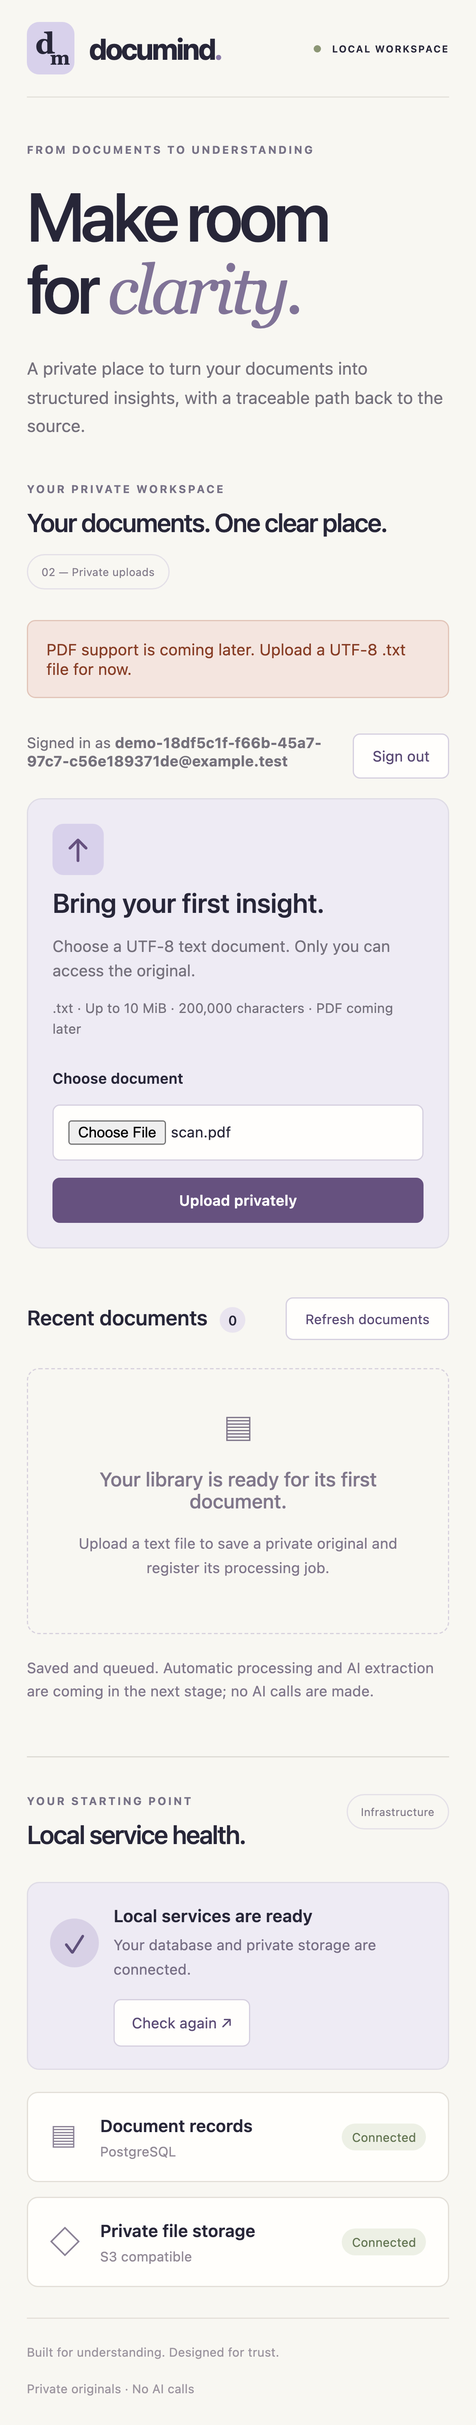
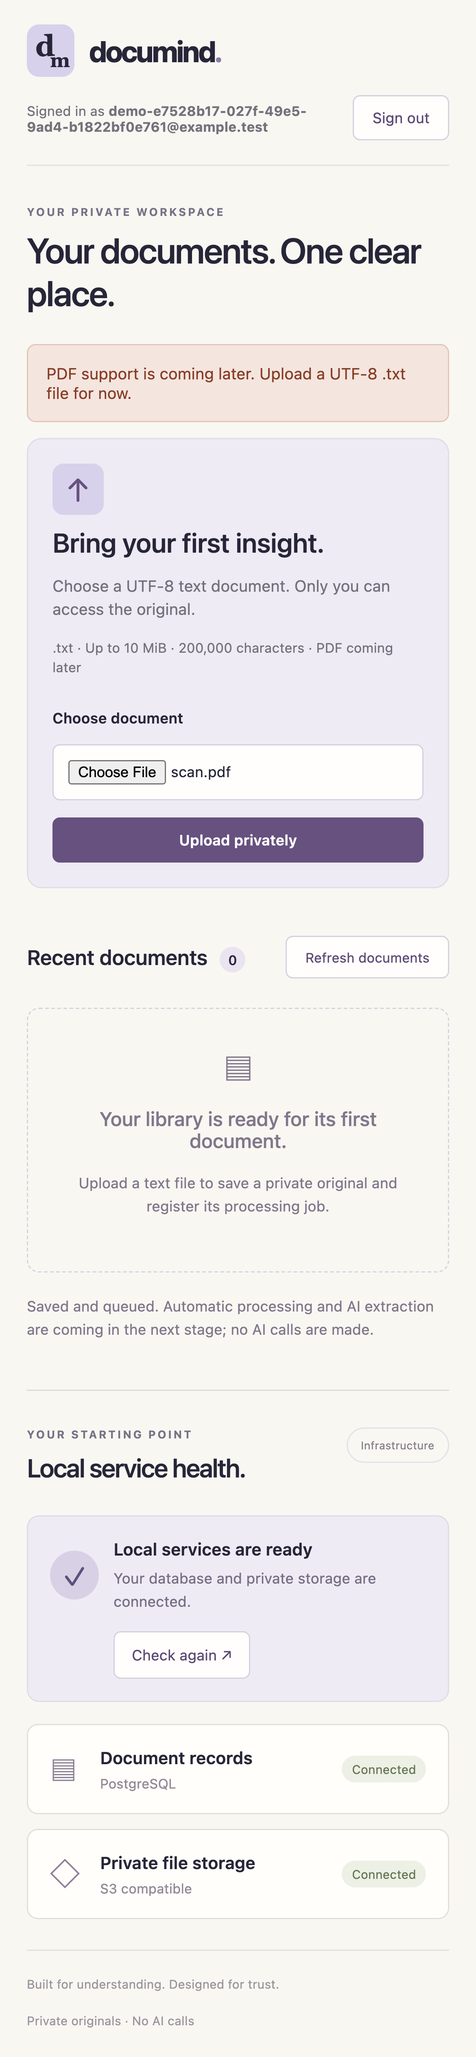
fix: separate authentication entry from document workspace

diff --git a/web/src/workspace.tsx b/web/src/workspace.tsx
@@ -1,4 +1,5 @@
-import {useEffect, useRef, useState, type FormEvent} from 'react';
+import {useEffect, useRef, useState, type FormEvent, type ReactNode} from 'react';
+import {Brand} from './brand';
 type User = {id:string;email:string};
 type Document = {id:string;name:string;size:number;status:string;createdAt:string};
 const messages:Record<string,string> = {
@@ -10,15 +11,15 @@ const messages:Record<string,string> = {
  storage_unavailable:'Private storage is unavailable. Your upload was not accepted. Try again.',registration_unavailable:'We could not confirm this upload. Try again with the same file to safely check its status.',
  uploads_busy:'Uploads are busy. Wait a moment and try again.',origin_rejected:'This address is not configured for sign-in. Use the local workspace address.',
 };
-export function Workspace(){
- const [user,setUser]=useState<User|null>(null),[checking,setChecking]=useState(true),[mode,setMode]=useState<'login'|'register'>('register');
+export function Workspace({children}:{children:ReactNode}){
+ const [user,setUser]=useState<User|null>(null),[checking,setChecking]=useState(true),[mode,setMode]=useState<'login'|'register'>('login');
  const [email,setEmail]=useState(''),[password,setPassword]=useState(''),[busy,setBusy]=useState(false),[error,setError]=useState(''),[notice,setNotice]=useState('');
  const [docs,setDocs]=useState<Document[]>([]),[listReady,setListReady]=useState(false),[file,setFile]=useState<File|null>(null);
  const key=useRef(''),input=useRef<HTMLInputElement>(null);
  async function api(path:string,init?:RequestInit){
   const response=await fetch(path,{...init,signal:AbortSignal.timeout(45000)});
   const data=await response.json();
-  if(!response.ok){if(response.status===401&&path!=='/api/auth/login'){setUser(null);setDocs([]);setListReady(false);setFile(null);key.current='';setNotice('')};throw new Error(messages[data.error]??'Something went wrong. Check your local services and try again.');}
+  if(!response.ok){if(response.status===401&&path!=='/api/auth/login'){setUser(null);setDocs([]);setListReady(false);setFile(null);key.current='';setNotice('');setMode('login')};throw new Error(messages[data.error]??'Something went wrong. Check your local services and try again.');}
   return data;
  }
  useEffect(()=>{let active=true;void fetch('/api/me',{signal:AbortSignal.timeout(8000)}).then(async r=>{
@@ -37,16 +38,31 @@ export function Workspace(){
   }catch(e){setError(e instanceof Error?e.message:'Could not confirm the upload. Retry with the same file.')}finally{setBusy(false)}
  }
  async function refresh(){setBusy(true);setError('');try{const d=await api('/api/documents');setDocs(d.documents);setListReady(true)}catch(e){setError((e as Error).message)}finally{setBusy(false)}}
- return <section className="document-workspace" aria-labelledby="documents-title">
-  <div className="section-heading"><div><p className="eyebrow">YOUR PRIVATE WORKSPACE</p><h2 id="documents-title">{user?'Your documents. One clear place.':'A little clarity starts here.'}</h2></div><span className="phase">02 — Private uploads</span></div>
-  {error&&<p className="error" role="alert">{error}</p>}{notice&&<p className="success" role="status">{notice}</p>}
-  {checking?<p role="status">Checking your session…</p>:user?<>
-   <div className="account"><span>Signed in as <strong>{user.email}</strong></span><button disabled={busy} onClick={()=>void logout()}>Sign out</button></div>
+ if(checking) return <div className="session-screen"><Brand/><main><div className="session-indicator" aria-hidden="true"/><p role="status">Checking your session…</p></main></div>;
+ if(!user) return <div className="auth-screen">
+  <aside className="auth-story"><Brand/><div className="auth-story-copy"><p className="eyebrow">FROM DOCUMENTS TO UNDERSTANDING</p><h2>Make room<br/>for <em>clarity.</em></h2><p>A private place for your documents.<br/>A clearer view of what matters.</p><div className="auth-paper" aria-hidden="true"><span className="paper-label">YOUR NEXT CHAPTER</span><div className="paper-line wide"/><div className="paper-line"/><span className="highlight">It starts with a little clarity.</span><div className="paper-line short"/><span className="paper-number">01 /</span></div></div><p className="auth-footnote">Built for understanding. Designed for trust.</p></aside>
+  <main className="auth-main"><div className="auth-mobile-brand"><Brand/></div><div className="auth-form-wrap">
+   <p className="eyebrow">YOUR PRIVATE WORKSPACE</p><h1>{mode==='register'?'Create your account':'Welcome back'}</h1><p className="auth-description">{mode==='register'?'A fresh space for your documents. Make it yours.':'Sign in to pick up where you left off.'}</p>
+   <form className="identity-form" onSubmit={signIn}>
+    <label htmlFor="email">Email</label><input id="email" type="email" placeholder="you@example.com" autoComplete="username" required maxLength={254} disabled={busy} value={email} onChange={e=>setEmail(e.target.value)}/>
+    <label htmlFor="password">Password</label><input id="password" type="password" autoComplete={mode==='register'?'new-password':'current-password'} required minLength={12} maxLength={128} disabled={busy} value={password} onChange={e=>setPassword(e.target.value)}/>
+    {mode==='register'&&<p className="hint">Use at least 12 characters.</p>}
+    {error&&<p className="error" role="alert">{error}</p>}
+    <button className="primary" disabled={busy}>{busy?'Please wait…':mode==='register'?'Create account':'Sign in'}</button>
+    <button type="button" disabled={busy} className="text-button" onClick={()=>{setMode(mode==='register'?'login':'register');setError('');setPassword('')}}>{mode==='register'?'Already have an account? Sign in':'New here? Create an account'}</button>
+   </form><p className="auth-privacy"><span aria-hidden="true">◇</span> Your documents are private to your account.</p>
+  </div><p className="auth-local">LOCAL WORKSPACE</p></main>
+ </div>;
+ return <div className="shell application-shell">
+  <header className="topbar"><Brand/><div className="account"><span>Signed in as <strong>{user.email}</strong></span><button disabled={busy} onClick={()=>void logout()}>Sign out</button></div></header>
+  <main className="application-main"><section className="document-workspace" aria-labelledby="documents-title">
+   <div className="section-heading"><div><p className="eyebrow">YOUR PRIVATE WORKSPACE</p><h1 id="documents-title">Your documents. One clear place.</h1></div></div>
+   {error&&<p className="error" role="alert">{error}</p>}{notice&&<p className="success" role="status">{notice}</p>}
    <form className="upload-card" onSubmit={upload}><div className="upload-copy"><span className="upload-symbol" aria-hidden="true">↑</span><h3>Bring your first insight.</h3><p>Choose a UTF-8 text document. Only you can access the original.</p><p className="hint">.txt · Up to 10 MiB · 200,000 characters · PDF coming later</p></div><label className="file-label" htmlFor="document-file">Choose document</label><input ref={input} id="document-file" name="file" type="file" accept=".txt,text/plain" disabled={busy} onChange={e=>{setFile(e.target.files?.[0]??null);key.current=crypto.randomUUID();setError('');setNotice('')}}/><button className="primary" disabled={busy||!file} type="submit">{busy?'Please wait…':'Upload privately'}</button></form>
    <div className="list-heading"><h3>Recent documents <span className="count">{docs.length}</span></h3><button disabled={busy} onClick={()=>void refresh()}>Refresh documents</button></div>
    {docs.length===0?<div className="empty"><span aria-hidden="true">▤</span><h3>{listReady?'Your library is ready for its first document.':'Loading your library…'}</h3><p>{listReady?'Upload a text file to save a private original and register its processing job.':'Use Refresh documents if the connection fails.'}</p></div>:<ul className="document-list">{docs.map(d=><li key={d.id}><span className="document-icon" aria-hidden="true">▤</span><div className="document-name"><strong>{d.name}</strong><span>{d.size.toLocaleString()} bytes · {new Date(d.createdAt).toLocaleDateString()}</span></div><span className="badge queued">Queued</span><a className="download" href={`/api/documents/${d.id}/download`}>Download<span className="sr-only"> {d.name}</span></a></li>)}</ul>}
    <p className="pipeline-note">Saved and queued. Automatic processing and AI extraction are coming in the next stage; no AI calls are made.</p>
-  </>:<div className="identity-layout"><div className="identity-copy"><h3>Your documents stay yours.</h3><p>Create a local account to save private text files and download your originals whenever you need them.</p><p className="hint">This workspace currently stores and queues files. Automatic processing and PDF support are coming later.</p></div><form className="identity-form" onSubmit={signIn}><h3>{mode==='register'?'Create your account':'Welcome back'}</h3><label htmlFor="email">Email</label><input id="email" type="email" autoComplete="username" required maxLength={254} disabled={busy} value={email} onChange={e=>setEmail(e.target.value)}/><label htmlFor="password">Password</label><input id="password" type="password" autoComplete={mode==='register'?'new-password':'current-password'} required minLength={12} maxLength={128} disabled={busy} value={password} onChange={e=>setPassword(e.target.value)}/><p className="hint">Use at least 12 characters.</p><button className="primary" disabled={busy}>{busy?'Please wait…':mode==='register'?'Create account':'Sign in'}</button><button type="button" disabled={busy} className="text-button" onClick={()=>{setMode(mode==='register'?'login':'register');setError('');setPassword('')}}>{mode==='register'?'Already have an account? Sign in':'New here? Create an account'}</button></form></div>}
 
- </section>;
+  </section>{children}<footer><span>Built for understanding. Designed for trust.</span><span>Private originals · No AI calls</span></footer></main>
+ </div>;
 }

diff --git a/web/src/styles.css b/web/src/styles.css
@@ -2,3 +2,10 @@
 
 .document-workspace{margin-bottom:44px}button{font-family:inherit;font-size:12px;padding:10px 15px;border:1px solid #d6d0e0;border-radius:6px;background:#fffefc;color:#5b4b76;cursor:pointer}button:disabled{opacity:.55;cursor:not-allowed}input{font:inherit;font-size:14px;border:1px solid #d6d0e0;border-radius:6px;padding:12px;background:#fffefc;width:100%;min-width:0}input:focus-visible{outline:3px solid #7560bd;outline-offset:2px}.primary{background:#66517f;color:#fff;border-color:#66517f;font-weight:600}.identity-layout{display:grid;grid-template-columns:1fr 1fr;gap:48px;background:#eeebf4;border:1px solid #dfdce6;border-radius:12px;padding:34px}.identity-copy{max-width:400px}.identity-copy h3{font:30px Georgia,serif;color:#625474}.identity-copy p{line-height:1.7;color:#75717c;font-size:14px}.identity-form{display:grid;gap:10px;background:#fffefb;border-radius:10px;padding:26px}.identity-form h3{margin:0 0 8px;font-size:21px}.identity-form label{font-size:12px;font-weight:600}.hint{font-size:11px!important;line-height:1.6;color:#80778b}.identity-form .hint{margin:0 0 8px}.text-button{border:0;background:none;font-size:12px}.account{display:flex;justify-content:space-between;align-items:center;gap:12px;font-size:12px;padding:16px 0;color:#75717c}.account span{overflow-wrap:anywhere}.upload-card{background:#eeebf4;border:1px solid #dfdce6;border-radius:12px;padding:26px;display:grid;grid-template-columns:1fr auto;gap:14px}.upload-copy{grid-column:1/-1}.upload-copy h3{font-size:22px;font-weight:550;margin:10px 0}.upload-copy p{font-size:13px;color:#75717c;line-height:1.5}.upload-symbol{display:grid;place-items:center;width:42px;height:42px;background:#d8d1eb;border-radius:9px;font-size:26px;color:#66517f}.file-label{grid-column:1/-1;font-size:12px;font-weight:600}.upload-card input{background:#fffefc;font-size:12px}.list-heading{display:flex;justify-content:space-between;align-items:center;gap:10px;margin:30px 0 14px}.list-heading h3{font-size:17px;font-weight:550}.count{font-size:11px;background:#e9e4ef;padding:4px 7px;border-radius:50%;margin-left:6px}.document-list{list-style:none;margin:0;padding:0;border:1px solid #e3dfd8;border-radius:10px;background:#fffefb;overflow:hidden}.document-list li{padding:21px;display:flex;align-items:center;gap:18px;border-bottom:1px solid #e9e5de}.document-list li:last-child{border:0}.document-icon{font-size:26px;color:#9a8cac}.document-name{display:flex;flex-direction:column;gap:6px;min-width:0;flex:1}.document-name strong{overflow-wrap:anywhere;font-size:14px;font-weight:600}.document-name span{font-size:10px;color:#918995}.download{font-size:12px;color:#66517f}.queued{background:#eee8f4;color:#735b8a;margin:0}.empty{text-align:center;border:1px dashed #d8d2de;border-radius:10px;padding:32px;color:#80778b}.empty>span{font-size:28px}.empty h3{font-weight:500;font-size:16px}.empty p,.pipeline-note{font-size:12px;line-height:1.6}.pipeline-note{color:#80778b;margin-top:18px}.success{background:#edf0e5;color:#4c633a;border:1px solid #cbd6bb;border-radius:7px;padding:16px;font-size:13px;line-height:1.6}.sr-only{position:absolute;width:1px;height:1px;padding:0;margin:-1px;overflow:hidden;clip:rect(0,0,0,0);white-space:nowrap;border:0}
 @media(max-width:700px){.identity-layout{grid-template-columns:1fr;padding:20px;gap:12px}.identity-copy h3{font-size:25px;margin-top:0}.identity-form{padding:20px}.document-workspace .section-heading{flex-direction:column}.upload-card{grid-template-columns:1fr;padding:20px}.upload-copy,.file-label{grid-column:1}.document-list li{flex-wrap:wrap;padding:18px;gap:12px}.document-name{min-width:calc(100% - 44px)}.document-list .badge{margin-left:38px}.download{margin-left:auto}.account{align-items:flex-start}.account button{flex-shrink:0}.list-heading button{font-size:11px}}
+
+/* Authentication is a full entry screen. Application panels mount only after identity resolves. */
+.auth-screen{min-height:100dvh;display:grid;grid-template-columns:1fr 1fr;background:#fffefb}.auth-story{background:#eeebf4;padding:48px 60px 30px;display:flex;flex-direction:column;position:relative;overflow:hidden}.auth-story-copy{margin:auto 0;padding:55px 0 35px}.auth-story h2{font-size:72px;line-height:1.05;letter-spacing:-3.5px;font-weight:550}.auth-story h2 em{font:italic 1em Georgia,serif;color:#807397}.auth-story-copy>p:not(.eyebrow){font-size:16px;line-height:1.75;color:#756f80}.auth-paper{width:245px;margin:42px 0 10px 35px;padding:28px;background:#fffefb;border:1px solid #ddd7e5;border-radius:7px;transform:rotate(-7deg);box-shadow:12px 14px 0 #ded7e9}.auth-paper .paper-label{margin-bottom:24px}.auth-paper .paper-number{margin-top:20px}.auth-footnote{font-size:11px;color:#8b8296;line-height:1.5;margin:0}.auth-main{padding:40px 60px;display:flex;flex-direction:column;justify-content:center;align-items:center;position:relative}.auth-form-wrap{width:100%;max-width:380px;margin:auto 0;padding:40px 0}.auth-form-wrap h1{font-size:38px;line-height:1.15;letter-spacing:-1.5px;margin:0 0 14px;font-weight:550}.auth-form-wrap .eyebrow{margin-bottom:16px}.auth-description{color:#80778b;font-size:14px;line-height:1.7;margin:0 0 32px}.auth-main .identity-form{padding:0;background:none;gap:12px}.auth-main .identity-form input{height:48px;background:#fffefb}.auth-main .identity-form label:not(:first-child){margin-top:9px}.auth-main .identity-form .primary{height:48px;margin-top:12px}.auth-main .identity-form .error{margin:2px 0}.auth-main .text-button{margin-top:4px}.auth-privacy{text-align:center;font-size:11px;color:#8b8296;margin:30px 0 0;padding-top:24px;border-top:1px solid #e8e4dc}.auth-privacy span{margin-right:6px}.auth-local{font-size:9px;letter-spacing:1.8px;color:#9b93a3;margin:0}.auth-mobile-brand{display:none}.session-screen{min-height:100dvh;display:flex;flex-direction:column;align-items:center;justify-content:center;gap:30px}.session-screen main{padding:0;text-align:center;font-size:14px;color:#80778b}.session-indicator{width:20px;height:20px;margin:0 auto 16px;border:2px solid #ded7e9;border-top-color:#66517f;border-radius:50%;animation:session-spin 1s linear infinite}@keyframes session-spin{to{transform:rotate(360deg)}}.application-shell .topbar{gap:28px}.application-shell .account{max-width:65%;gap:20px}.application-shell .account span{font-size:11px;text-align:right}.application-main{max-width:1120px;margin:auto;padding-top:48px}.application-main h1{font-size:34px;line-height:1.2;letter-spacing:-1px;margin:0}.application-main .workspace{margin-top:40px}.application-main .document-workspace{margin-bottom:0}
+@media(min-width:1500px){.auth-story{padding-left:max(60px,calc((100vw - 1300px)/2))}.auth-story-copy{padding-top:70px}}
+@media(max-width:900px){.auth-story{padding:35px}.auth-story h2{font-size:56px}.auth-main{padding:35px}.auth-paper{margin-left:10px;width:220px}}
+@media(max-width:700px){.auth-screen{display:block}.auth-story{display:none}.auth-main{min-height:100dvh;padding:28px 26px}.auth-mobile-brand{display:block;align-self:flex-start;margin-bottom:32px}.auth-form-wrap{max-width:420px;padding:20px 0 40px}.auth-form-wrap h1{font-size:34px}.auth-description{margin-bottom:25px}.auth-local{padding-top:20px}.application-shell .topbar{height:auto;min-height:90px;padding:20px 0;align-items:flex-start;flex-wrap:wrap;gap:15px}.application-shell .account{width:100%;max-width:none;margin:0;padding:0;align-items:center;justify-content:space-between}.application-shell .account span{text-align:left;max-width:75%}.application-main{padding-top:32px}.application-main h1{font-size:29px}.application-main .section-heading{margin-bottom:24px}}
+@media(prefers-reduced-motion:reduce){.session-indicator{animation:none}}

diff --git a/tests/e2e/uploads.spec.ts b/tests/e2e/uploads.spec.ts
@@ -1,23 +1,18 @@
-import {test,expect,type Page} from '@playwright/test';
-import {randomUUID} from 'node:crypto';
+import {test,expect} from '@playwright/test';
+import {register} from './helpers';
 import {mkdir} from 'node:fs/promises';
-async function register(page:Page){
- const email=`demo-${randomUUID()}@example.test`;
- await page.goto('/');await page.getByLabel('Email',{exact:true}).fill(email);await page.getByLabel('Password',{exact:true}).fill('Synthetic-password-123');await page.getByRole('button',{name:'Create account',exact:true}).click();
- await expect(page.getByText('Signed in as')).toContainText(email);await expect(page.getByRole('heading',{name:'Your library is ready for its first document.'})).toBeVisible();return email;
-}
 test('private upload persists after refresh and downloads exact original; logout and login',async({page},info)=>{
  const errors:string[]=[];page.on('pageerror',e=>errors.push(e.message));const email=await register(page);
  const body='Synthetic project brief\nGoal: make document handling traceable.\nBudget: 42 credits.\n';
  await page.getByLabel('Choose document').setInputFiles({name:'project-brief.txt',mimeType:'text/plain',buffer:Buffer.from(body)});
  await page.getByRole('button',{name:'Upload privately'}).click();await expect(page.getByRole('status').filter({hasText:'was saved privately and queued'})).toBeVisible();
  await expect(page.getByText('Queued',{exact:true})).toHaveCount(1);
- await page.reload();await expect(page.getByRole('strong').filter({hasText:'project-brief.txt'})).toBeVisible();
+ await page.reload();await expect(page.getByRole('heading',{name:'Welcome back'})).toHaveCount(0);await expect(page.getByRole('strong').filter({hasText:'project-brief.txt'})).toBeVisible();
  const downloadPromise=page.waitForEvent('download');await page.getByRole('link',{name:'Download project-brief.txt'}).click();const download=await downloadPromise;
  expect(download.suggestedFilename()).toBe('project-brief.txt');const stream=await download.createReadStream();let downloaded='';for await(const chunk of stream)downloaded+=chunk.toString();expect(downloaded).toBe(body);
  expect(await page.evaluate(()=>document.documentElement.scrollWidth<=innerWidth)).toBe(true);
  await mkdir('docs/screenshots',{recursive:true});await page.screenshot({path:`docs/screenshots/upload-queued-${info.project.name}.png`,fullPage:true});
- await page.getByRole('button',{name:'Sign out',exact:true}).click();await expect(page.getByRole('heading',{name:'Welcome back'})).toBeVisible();await expect(page.getByRole('strong').filter({hasText:'project-brief.txt'})).toHaveCount(0);
+ await page.getByRole('button',{name:'Sign out',exact:true}).click();await expect(page.getByRole('heading',{name:'Welcome back'})).toBeVisible();await expect(page.getByRole('heading',{name:'Local service health.'})).toHaveCount(0);await expect(page.getByLabel('Choose document')).toHaveCount(0);await expect(page.getByRole('strong').filter({hasText:'project-brief.txt'})).toHaveCount(0);
  await page.getByLabel('Email',{exact:true}).fill(email);await page.getByLabel('Password',{exact:true}).fill('Synthetic-password-123');await page.getByRole('button',{name:'Sign in',exact:true}).click();await expect(page.getByRole('strong').filter({hasText:'project-brief.txt'})).toBeVisible();
  // A rejected session must also discard a pending file before another sign-in.
  await page.getByLabel('Choose document').setInputFiles({name:'pending.txt',mimeType:'text/plain',buffer:Buffer.from('Synthetic unsent file')});
@@ -39,5 +34,5 @@ test('invalid input and lost acknowledgement recover without duplicate documents
  });
  await page.getByRole('button',{name:'Upload privately'}).click();await expect(page.getByRole('alert')).toContainText('Try again with the same file');await page.unroute('**/api/documents');
  const retry=page.waitForRequest(r=>r.method()==='POST'&&r.url().endsWith('/api/documents'));await page.getByRole('button',{name:'Upload privately'}).click();expect((await retry).headers()['idempotency-key']).toBe(firstKey);
- await expect(page.getByRole('strong').filter({hasText:'recovery.txt'})).toHaveCount(1);await expect(page.getByRole('alert')).toHaveCount(0);await page.reload();await expect(page.getByRole('strong').filter({hasText:'recovery.txt'})).toHaveCount(1);await expect(page.getByText('Queued',{exact:true})).toHaveCount(1);
+ await expect(page.getByRole('strong').filter({hasText:'recovery.txt'})).toHaveCount(1);await expect(page.getByRole('alert')).toHaveCount(0);await page.reload();await expect(page.getByRole('heading',{name:'Welcome back'})).toHaveCount(0);await expect(page.getByRole('strong').filter({hasText:'recovery.txt'})).toHaveCount(1);await expect(page.getByText('Queued',{exact:true})).toHaveCount(1);
 });

diff --git a/web/src/main.tsx b/web/src/main.tsx
@@ -3,7 +3,7 @@ import {createRoot} from 'react-dom/client';
 import './styles.css';
 import {Workspace} from './workspace';
 type Health={status:'ready'|'unavailable';components:{database:string;storage:string};documentProcessing:false};
-function App(){
+function Health(){
  const [health,setHealth]=useState<Health|null>(null),[loading,setLoading]=useState(true),[error,setError]=useState('');
  const active=useRef<AbortController|null>(null);
  async function refresh(){
@@ -20,19 +20,11 @@ function App(){
   finally{clearTimeout(timer);if(active.current===controller)setLoading(false);}
  }
  useEffect(()=>{void refresh();return()=>{active.current?.abort();active.current=null;};},[]);
- return <div className="shell">
-  <header className="topbar"><a className="brand" href="/" aria-label="DocuMind home"><span className="mark" aria-hidden="true">d<span>m</span></span>documind<span className="dot">.</span></a><span className="environment"><i/> LOCAL WORKSPACE</span></header>
-  <main>
-   <div className="intro"><div><p className="eyebrow">FROM DOCUMENTS TO UNDERSTANDING</p><h1>Make room<br/>for <em>clarity.</em></h1><p className="lede">A private place to turn your documents into<br className="desktop-break"/> structured insights, with a traceable path back to the source.</p></div><div className="paper-stack" aria-hidden="true"><div className="paper back"/><div className="paper front"><span className="paper-label">THE BIG PICTURE</span><div className="paper-line wide"/><div className="paper-line"/><div className="paper-line short"/><span className="highlight">Understand what matters.</span><div className="paper-line"/><div className="paper-line wide"/><span className="paper-number">01 /</span></div><span className="seal">dm.</span></div></div>
-   <Workspace/>
-   <section className="workspace" aria-labelledby="workspace-title"><div className="section-heading"><div><p className="eyebrow">YOUR STARTING POINT</p><h2 id="workspace-title">Local service health.</h2></div><span className="phase">Infrastructure</span></div>
+ return <section className="workspace" aria-labelledby="workspace-title"><div className="section-heading"><div><p className="eyebrow">YOUR STARTING POINT</p><h2 id="workspace-title">Local service health.</h2></div><span className="phase">Infrastructure</span></div>
     <div className="readiness"><div className="status-symbol" aria-hidden="true">{loading?'…':health?.status==='ready'?'✓':'!'}</div><div><h3>{loading?'Checking local services…':health?.status==='ready'?'Local services are ready':'Workspace needs attention'}</h3><p role="status">{loading?'Checking the database and private storage.':health?.status==='ready'?'Your database and private storage are connected.':'Some connections could not be verified.'}</p></div><button disabled={loading} onClick={()=>void refresh()}>{loading?'Checking…':'Check again'}<span aria-hidden="true"> ↗</span></button></div>
     {error&&<p className="error" role="alert">{error}</p>}
     <div className="services"><div><span className="service-icon" aria-hidden="true">▤</span><div><h3>Document records</h3><p>PostgreSQL</p></div><span className={'badge '+(health?.components.database==='ready'?'ok':'')}>{loading?'Checking':health?.components.database==='ready'?'Connected':'Unavailable'}</span></div><div><span className="service-icon" aria-hidden="true">◇</span><div><h3>Private file storage</h3><p>S3 compatible</p></div><span className={'badge '+(health?.components.storage==='ready'?'ok':'')}>{loading?'Checking':health?.components.storage==='ready'?'Connected':'Unavailable'}</span></div></div>
 
-   </section>
-   <footer><span>Built for understanding. Designed for trust.</span><span>Private originals · No AI calls</span></footer>
-  </main>
- </div>;
+   </section>;
 }
-createRoot(document.getElementById('root')!).render(<App/>);
+createRoot(document.getElementById('root')!).render(<Workspace><Health/></Workspace>);

diff --git a/tests/e2e/bootstrap.spec.ts b/tests/e2e/bootstrap.spec.ts
@@ -1,17 +1,29 @@
 import {test,expect} from '@playwright/test';
 import {mkdir} from 'node:fs/promises';
-test('workspace shows real readiness and honest processing scope',async({page},info)=>{
+import {register} from './helpers';
+test('standalone login and registration keep application panels hidden',async({page},info)=>{
  const errors:string[]=[];page.on('pageerror',e=>errors.push(e.message));
- await page.goto('/');await expect(page.getByRole('heading',{name:'Local services are ready'})).toBeVisible();
- await expect(page.getByText('Connected',{exact:true})).toHaveCount(2);
- await expect(page.getByRole('heading',{name:'Create your account'})).toBeVisible();
+ const privateRequests:string[]=[];page.on('request',r=>{if(r.url().includes('/api/documents')||r.url().includes('/api/health'))privateRequests.push(r.url())});
+ await page.goto('/');await expect(page.getByRole('heading',{name:'Welcome back'})).toBeVisible();
+ await expect(page.getByLabel('Choose document')).toHaveCount(0);await expect(page.getByRole('heading',{name:'Local service health.'})).toHaveCount(0);
  expect(await page.evaluate(()=>document.documentElement.scrollWidth<=innerWidth)).toBe(true);
  await mkdir('docs/screenshots',{recursive:true});await page.screenshot({path:`docs/screenshots/upload-signin-${info.project.name}.png`,fullPage:true});
- expect(errors).toEqual([]);
+ await page.getByRole('button',{name:'New here? Create an account'}).click();await expect(page.getByRole('heading',{name:'Create your account'})).toBeVisible();
+ await page.screenshot({path:`docs/screenshots/upload-register-${info.project.name}.png`,fullPage:true});
+ await page.getByRole('button',{name:'Already have an account? Sign in'}).click();
+ await page.getByLabel('Email',{exact:true}).fill('missing@example.test');await page.getByLabel('Password',{exact:true}).fill('Wrong-password-123');await page.getByRole('button',{name:'Sign in',exact:true}).click();
+ await expect(page.getByRole('alert')).toContainText('Email or password is incorrect');await expect(page.getByRole('heading',{name:'Welcome back'})).toBeVisible();expect(privateRequests).toEqual([]);expect(errors).toEqual([]);
 });
-test('unavailable service shows an actionable error and recovers on retry',async({page},info)=>{
+test('session verification shows only loading until identity is resolved',async({page})=>{
+ let release!:()=>void;const gate=new Promise<void>(r=>{release=r});
+ await page.route('**/api/me',async route=>{await gate;await route.fulfill({status:401,contentType:'application/json',body:'{"error":"authentication_required"}'})});
+ await page.goto('/');await expect(page.getByRole('status')).toHaveText('Checking your session…');
+ await expect(page.getByLabel('Email',{exact:true})).toHaveCount(0);await expect(page.getByLabel('Choose document')).toHaveCount(0);await expect(page.getByRole('heading',{name:'Local service health.'})).toHaveCount(0);
+ release();await expect(page.getByRole('heading',{name:'Welcome back'})).toBeVisible();
+});
+test('authenticated service health shows an actionable error and recovers',async({page},info)=>{
  await page.route('**/api/health/ready',route=>route.fulfill({status:503,contentType:'application/json',body:JSON.stringify({status:'unavailable',components:{database:'ready',storage:'unavailable'},documentProcessing:false})}));
- await page.goto('/');await expect(page.getByRole('alert')).toContainText('A local service is unavailable');
+ await register(page);await expect(page.getByRole('alert')).toContainText('A local service is unavailable');
  await expect(page.getByText('Unavailable',{exact:true})).toHaveCount(1);
  await mkdir('docs/screenshots',{recursive:true});await page.screenshot({path:`docs/screenshots/upload-unavailable-${info.project.name}.png`,fullPage:true});
  await page.unroute('**/api/health/ready');await page.getByRole('button',{name:'Check again'}).click();

diff --git a/tests/e2e/helpers.ts b/tests/e2e/helpers.ts
@@ -1,0 +1,10 @@
+import {expect,type Page} from '@playwright/test';
+import {randomUUID} from 'node:crypto';
+export async function register(page:Page){
+ const email=`demo-${randomUUID()}@example.test`;
+ await page.goto('/');await page.getByRole('button',{name:'New here? Create an account'}).click();
+ await page.getByLabel('Email',{exact:true}).fill(email);await page.getByLabel('Password',{exact:true}).fill('Synthetic-password-123');await page.getByRole('button',{name:'Create account',exact:true}).click();
+ await expect(page.getByText('Signed in as')).toContainText(email);await expect(page.getByRole('heading',{name:'Your library is ready for its first document.'})).toBeVisible();
+ await expect(page.getByLabel('Password',{exact:true})).toHaveCount(0);
+ return email;
+}

diff --git a/web/src/brand.tsx b/web/src/brand.tsx
@@ -1,0 +1,3 @@
+export function Brand() {
+ return <a className="brand" href="/" aria-label="DocuMind home"><span className="mark" aria-hidden="true">d<span>m</span></span>documind<span className="dot">.</span></a>;
+}

diff --git a/docs/verification.md b/docs/verification.md
@@ -9,15 +9,21 @@ Date: 2026-10-31, America/Argentina/Buenos_Aires. Source: the commit containing 
 | DM-A03 | Real DB/S3: eight concurrent service calls produce one document/job; byte conflict 409; same key scoped independently per owner; storage confirmation fault and real deferred COMMIT failure leave no document/job; durable intents survive and grace-period cleanup preserves fresh and committed originals. |
 | Future schema invariants | DB rejects a second active generation and a result without its job. These checks do not prove worker fencing or extraction validation. |
 | Durable queue subset of A04 | Handler recreation reads the persisted queued document. This is not a worker kill/recovery test. |
-| Initial UI (partial A08) | Eight desktop/mobile browser scenarios: readiness, injected outage/recovery, registration/upload/refresh/download/logout/login, invalid PDF, session-rejection selection reset and lost-acknowledgement retry without duplication. No processing/results UI claimed. |
+| Initial UI (partial A08) | Ten desktop/mobile browser scenarios: readiness, injected outage/recovery, registration/upload/refresh/download/logout/login, invalid PDF, session-rejection selection reset and lost-acknowledgement retry without duplication. No processing/results UI claimed. |
 
-Commands: `npm run check` (typecheck, web/Go builds, race tests, real integration, worker dependency check, eight E2E scenarios); `go vet ./...`. All data is synthetic. S3 failure injection happens after a real write; database failure is a deferred PostgreSQL constraint trigger at COMMIT, not a mocked transaction. Browser acknowledgement loss is simulated by replacing a real 202 response with 503, then retrying the original idempotency key. This does not simulate a physical network outage.
+Commands: `npm run check` (typecheck, web/Go builds, race tests, real integration, worker dependency check, ten E2E scenarios); `go vet ./...`. All data is synthetic. S3 failure injection happens after a real write; database failure is a deferred PostgreSQL constraint trigger at COMMIT, not a mocked transaction. Browser acknowledgement loss is simulated by replacing a real 202 response with 503, then retrying the original idempotency key. This does not simulate a physical network outage.
 
-Visual evidence inspected: [queued desktop](screenshots/upload-queued-desktop.png), [queued mobile](screenshots/upload-queued-mobile.png), [rejected PDF mobile](screenshots/upload-rejected-mobile.png), [registration desktop](screenshots/upload-signin-desktop.png). Eight screenshots also include registration/rejection/unavailable on both viewports. They show real local UI; health unavailable is injected.
+Visual evidence inspected: [queued desktop](screenshots/upload-queued-desktop.png), [queued mobile](screenshots/upload-queued-mobile.png), [rejected PDF mobile](screenshots/upload-rejected-mobile.png), [registration desktop](screenshots/upload-signin-desktop.png). Ten screenshots include standalone login/registration and authenticated queue/rejection/unavailable states on both viewports. They show real local UI; health unavailable is injected.
 
 Limits: no public deployment, live AI, PDF parser, worker claims/recovery/retries, provider-result validation, load/security certification, or Go vulnerability scan. HTTP upload concurrency and password derivation are bounded; public abuse controls, session/fixture retention, user deletion and quotas remain release work. Reconciler handles failed-upload orphans only. Reviewer evidence is self-review, not independent approval.
 
 ---
+
+### Authentication entry refinement (UX-A01–UX-A04)
+
+Manuel requested a standalone registration/login screen before entering the system. The session gate now renders one of three mutually exclusive screens: verification in progress, authentication, or the document application. Document/service components do not mount before authentication; the login defaults to sign-in with a registration alternative. Logout and protected API 401 return to login.
+
+Validation on 2026-10-31: `npm run typecheck`, `npm run build` and all **10 desktop/mobile browser scenarios** passed. The entry tests assert no document/health requests while signed out, delay session resolution to inspect the neutral loading state, switch registration/login and reject wrong credentials. Existing real registration/upload/download/reload/logout and 401/reset cases verify entry to and exit from the system. Login, registration and application screenshots were regenerated and visually inspected. Backend code and authorization are unchanged; current-head CI is recorded on the PR.
 
 ## Historical DM-00 verification (2026-10-30)
 

diff --git a/README.md b/README.md
@@ -28,7 +28,7 @@ npm run api
 npm run dev
 ```
 
-Open **http://127.0.0.1:4320** and create your own local account (email and a password of at least 12 characters). There are no seeded user credentials. Upload a `.txt` file, up to 10 MiB and 200,000 characters. Its status stays **Queued** until worker implementation. Download returns the private original; PDF uploads are explicitly rejected until DM-03. The screen also checks PostgreSQL and private storage. If unavailable, start services/API and use **Check again**. The frontend is a development server; production serving belongs to deployment work.
+Open **http://127.0.0.1:4320** to see the standalone sign-in screen. Choose **New here? Create an account** to register with an email and a password of at least 12 characters. After authentication, the entry screen is replaced by the document application. Reload restores an existing valid session; sign-out returns to the login screen. There are no seeded user credentials. Upload a `.txt` file, up to 10 MiB and 200,000 characters. Its status stays **Queued** until worker implementation. Download returns the private original; PDF uploads are explicitly rejected until DM-03. The screen also checks PostgreSQL and private storage. If unavailable, start services/API and use **Check again**. The frontend is a development server; production serving belongs to deployment work.
 
 The worker scaffold can validate its dependencies with `npm run worker:check`. `npm run worker` starts an explicitly idle process and shuts down on SIGINT/SIGTERM. It does not claim or process jobs yet.
 
@@ -68,7 +68,7 @@ npx playwright install chromium
 npm run check
 ```
 
-Stop the local API and Vite processes first: browser tests own ports 4320/4321. Checks run TypeScript, production web/Go builds, Go tests with the race detector, real PostgreSQL/S3 integration, the worker dependency check and eight desktop/mobile browser scenarios. Integration tests use synthetic objects and remove their document/account fixtures. Browser scenarios create synthetic `@example.test` accounts and documents in the local database; they are intentionally not user data and are not a demo login. No real documents are needed. The health error test injects a 503 response. The lost-acknowledgement scenario commits a real upload, replaces its response with 503 and then retries the same key. These are response fault injections, not real network outages.
+Stop the local API and Vite processes first: browser tests own ports 4320/4321. Checks run TypeScript, production web/Go builds, Go tests with the race detector, real PostgreSQL/S3 integration, the worker dependency check and ten desktop/mobile browser scenarios. Integration tests use synthetic objects and remove their document/account fixtures. Browser scenarios create synthetic `@example.test` accounts and documents in the local database; they are intentionally not user data and are not a demo login. No real documents are needed. The health error test injects a 503 response. The lost-acknowledgement scenario commits a real upload, replaces its response with 503 and then retries the same key. These are response fault injections, not real network outages.
 
 [Verification and limits](docs/verification.md) · [DM-01 checkpoint](docs/checkpoints/2026-10-31-private-upload.md) · [Bootstrap checkpoint](docs/checkpoints/2026-10-30-bootstrap.md)
 

diff --git a/specs/001-document-pipeline/contracts/private-upload.md b/specs/001-document-pipeline/contracts/private-upload.md
@@ -23,3 +23,7 @@ Schema includes one active job generation per document, composite result/job ide
 ## Required evidence
 
 Real PostgreSQL/S3 tests: registration/login/logout/expired sessions, origin rejection, unauthenticated/foreign access, input bounds, concurrent replay and conflict, owner-scoped keys, object failure, real deferred database commit failure, orphan grace/cleanup and persisted queue after handler restart. Desktop/mobile browser tests: registration, upload, refresh, original download, logout/login, invalid upload, visible error and recovery. Tests use synthetic data. Review is explicitly self-review; no independent approval is implied.
+
+## Authentication entry screen refinement — 2026-10-31
+
+Requested by Manuel during DM-01 review. UX-A01: while session verification is pending, render only a neutral loading screen; do not mount the document workspace or service health panel. UX-A02: signed-out users enter a standalone login screen with a registration alternative; neither documents nor infrastructure panels appear there. UX-A03: successful login/registration replaces the entire entry screen with the document application; a valid session survives reload without a login flash. UX-A04: logout or a protected API 401 replaces the application with the login screen and clears selected files/documents. Verify on desktop/mobile, including delayed session checks and invalid credentials. Server authorization remains unchanged.

diff --git a/docs/checkpoints/2026-10-31-private-upload.md b/docs/checkpoints/2026-10-31-private-upload.md
@@ -11,3 +11,7 @@ Self-review covered owner predicates, session lifecycle/origin enforcement, body
 Local verification: `npm run check`, `go vet ./...`, real dependency checks, synthetic failure cases, eight Chromium scenarios across desktop/mobile. See docs/verification.md for precise limits and mapping. No live AI calls, PDF parser or worker claims have been executed. Browser fixtures remain synthetic records in local volumes; integration fixtures are removed. Existing credentials and volumes were preserved.
 
 Next: integrate prerequisite PR #8 and this delivery through review; DM-02 implements leased claims, crash recovery, bounded retry and stale-worker fencing. Do not imply queued jobs already process.
+
+## Review refinement: standalone authentication entry
+
+Manuel requested a full registration/login entry screen followed by the authenticated application. Updated the contract with UX-A01–UX-A04 before implementation, separated verification/auth/application rendering, moved service health behind the UI session gate and removed the marketing hero from the document workspace. The server still enforces all authorization. TypeScript, production builds and ten desktop/mobile browser scenarios passed; new screenshots show login, registration and the document application separately. Existing valid sessions enter the application after verification; logout/401 returns to login. This remains part of PR #9.
